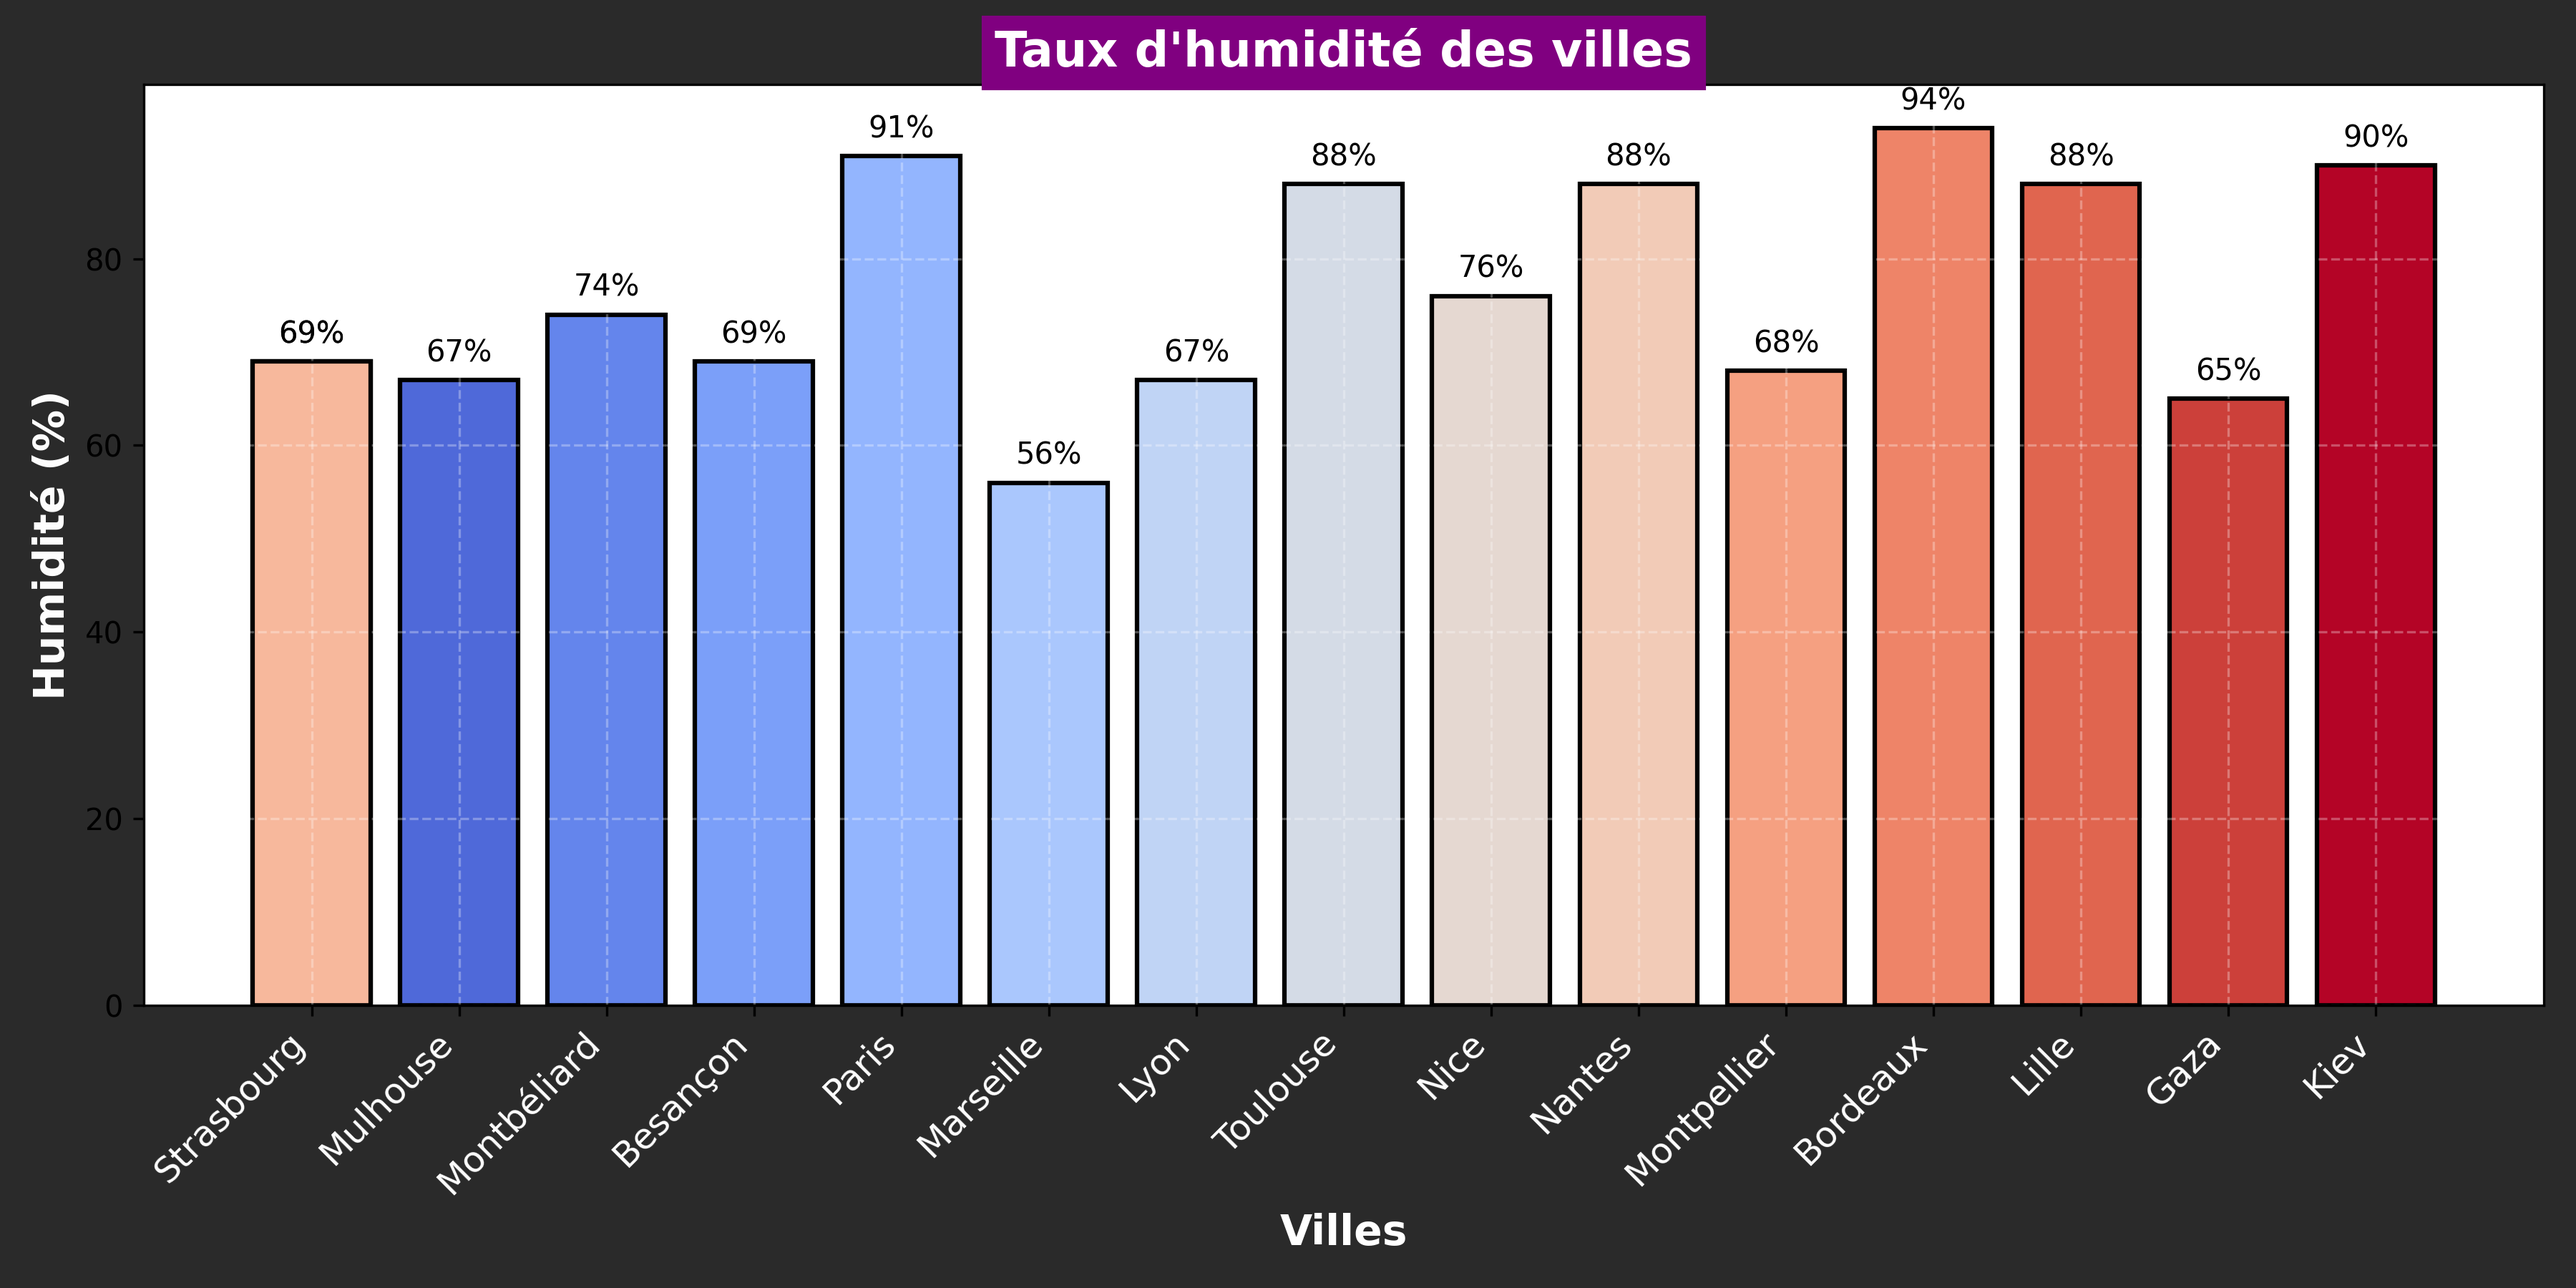
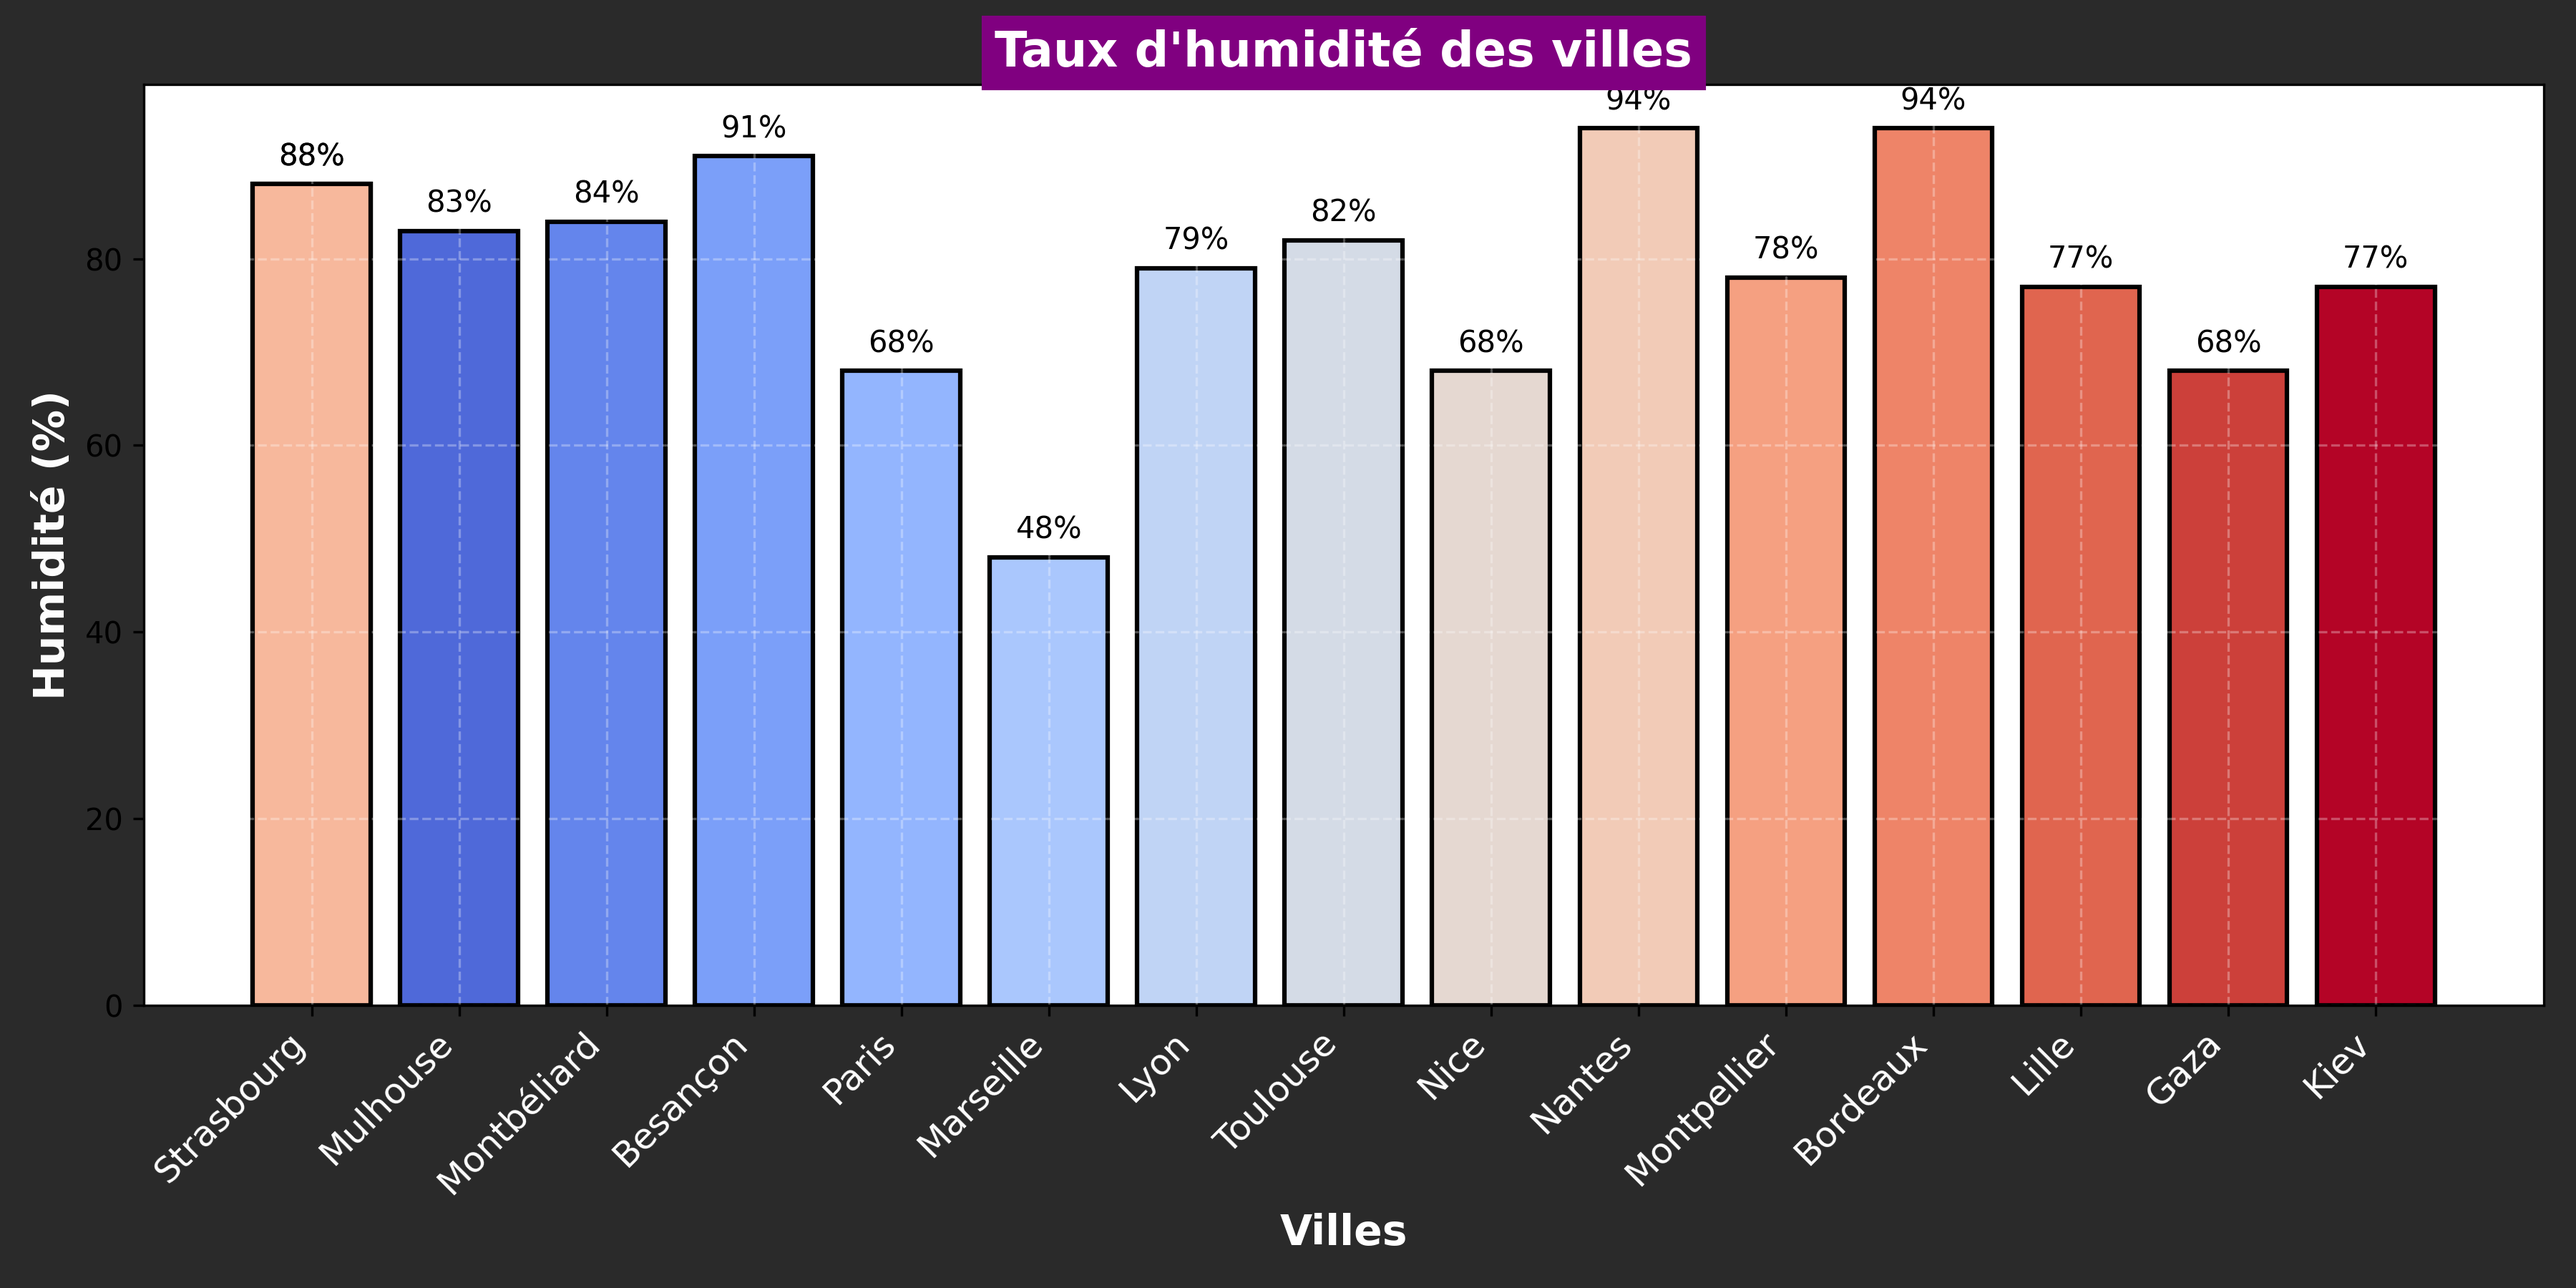
Mise à jour de la météo et ajout du graphique d'humidité

diff --git a/README.md b/README.md
@@ -24,103 +24,103 @@ Ce repo contient plusieurs workflows GitHub Actions :
 ## Météo actuelle :
 ## Météo des grandes villes + Gaza et Kiev 🌍
 
-🕒 Mise à jour : 14/06/2025 08:16:23
+🕒 Mise à jour : 15/06/2025 08:16:52
 
-### 🌍 Strasbourg ☀
-**Conditions :** ciel dégagé
-**Température :** 23.94°C
-**Humidité :** 69%
-**Vent :** 0.51 m/s
+### 🌍 Strasbourg 🌥
+**Conditions :** couvert
+**Température :** 21.07°C
+**Humidité :** 88%
+**Vent :** 3.6 m/s
 
-### 🌍 Mulhouse ☀
-**Conditions :** ciel dégagé
-**Température :** 23.08°C
-**Humidité :** 67%
-**Vent :** 2.57 m/s
-
-### 🌍 Montbéliard ☀
-**Conditions :** ciel dégagé
-**Température :** 24.99°C
-**Humidité :** 74%
-**Vent :** 0.79 m/s
-
-### 🌍 Besançon 🌧
-**Conditions :** légère pluie
-**Température :** 22.72°C
-**Humidité :** 69%
-**Vent :** 3.59 m/s
-
-### 🌍 Paris ☀
-**Conditions :** ciel dégagé
-**Température :** 21.45°C
-**Humidité :** 91%
-**Vent :** 2.57 m/s
-
-### 🌍 Marseille 🌧
+### 🌍 Mulhouse 🌧
 **Conditions :** pluie modérée
+**Température :** 21.35°C
+**Humidité :** 83%
+**Vent :** 1.03 m/s
+
+### 🌍 Montbéliard 🌧
+**Conditions :** légère pluie
+**Température :** 21.1°C
+**Humidité :** 84%
+**Vent :** 3.09 m/s
+
+### 🌍 Besançon 🌥
+**Conditions :** forte pluie
+**Température :** 17.96°C
+**Humidité :** 91%
+**Vent :** 0.31 m/s
+
+### 🌍 Paris 🌥
+**Conditions :** nuageux
+**Température :** 17.55°C
+**Humidité :** 68%
+**Vent :** 3.09 m/s
+
+### 🌍 Marseille 🌥
+**Conditions :** peu nuageux
 **Température :** 20.93°C
-**Humidité :** 56%
-**Vent :** 2.68 m/s
+**Humidité :** 48%
+**Vent :** 1.31 m/s
 
 ### 🌍 Lyon 🌥
 **Conditions :** couvert
-**Température :** 19.63°C
-**Humidité :** 67%
-**Vent :** 1.07 m/s
+**Température :** 19.21°C
+**Humidité :** 79%
+**Vent :** 1.09 m/s
 
 ### 🌍 Toulouse 🌥
 **Conditions :** nuageux
-**Température :** 19.99°C
-**Humidité :** 88%
-**Vent :** 1.03 m/s
+**Température :** 17.99°C
+**Humidité :** 82%
+**Vent :** 3.09 m/s
 
 ### 🌍 Nice 🌥
 **Conditions :** partiellement nuageux
-**Température :** 15.25°C
-**Humidité :** 76%
-**Vent :** 0.87 m/s
-
-### 🌍 Nantes 🌥
-**Conditions :** nuageux
-**Température :** 16.96°C
-**Humidité :** 88%
-**Vent :** 3.09 m/s
-
-### 🌍 Strasbourg ☀
-**Conditions :** ciel dégagé
-**Température :** 23.94°C
-**Humidité :** 69%
-**Vent :** 0.51 m/s
-
-### 🌍 Montpellier ☀
-**Conditions :** ciel dégagé
-**Température :** 21.71°C
+**Température :** 21.39°C
 **Humidité :** 68%
+**Vent :** 1.21 m/s
+
+### 🌍 Nantes ☀
+**Conditions :** ciel dégagé
+**Température :** 13.96°C
+**Humidité :** 94%
 **Vent :** 1.54 m/s
 
-### 🌍 Bordeaux 🌥
-**Conditions :** peu nuageux
-**Température :** 19.15°C
+### 🌍 Strasbourg 🌥
+**Conditions :** couvert
+**Température :** 21.07°C
+**Humidité :** 88%
+**Vent :** 3.6 m/s
+
+### 🌍 Montpellier 🌧
+**Conditions :** légère pluie
+**Température :** 20.71°C
+**Humidité :** 78%
+**Vent :** 2.06 m/s
+
+### 🌍 Bordeaux 🌧
+**Conditions :** légère pluie
+**Température :** 15.15°C
 **Humidité :** 94%
-**Vent :** 2.57 m/s
+**Vent :** 1.03 m/s
 
 ### 🌍 Lille ☀
 **Conditions :** ciel dégagé
-**Température :** 20.12°C
-**Humidité :** 88%
-**Vent :** 2.06 m/s
+**Température :** 16.09°C
+**Humidité :** 77%
+**Vent :** 3.09 m/s
 
 ### 🌍 Gaza ☀
 **Conditions :** ciel dégagé
-**Température :** 27.48°C
-**Humidité :** 65%
-**Vent :** 2.59 m/s
+**Température :** 26.29°C
+**Humidité :** 68%
+**Vent :** 3.91 m/s
 
 ### 🌍 Kiev 🌥
 **Conditions :** couvert
-**Température :** 14.36°C
-**Humidité :** 90%
-**Vent :** 4.33 m/s
+**Température :** 16.31°C
+**Humidité :** 77%
+**Vent :** 4.64 m/s
 
 <p align='center'><img src='https://raw.githubusercontent.com/khoa083/khoa/main/Khoa_ne/img/Rainbow.gif' width='100%' style='border-radius: 5px; border: 3px solid #39FF14; box-shadow: 0 0 10px #39FF14, 0 0 20px #39FF14;' /></p>
 
